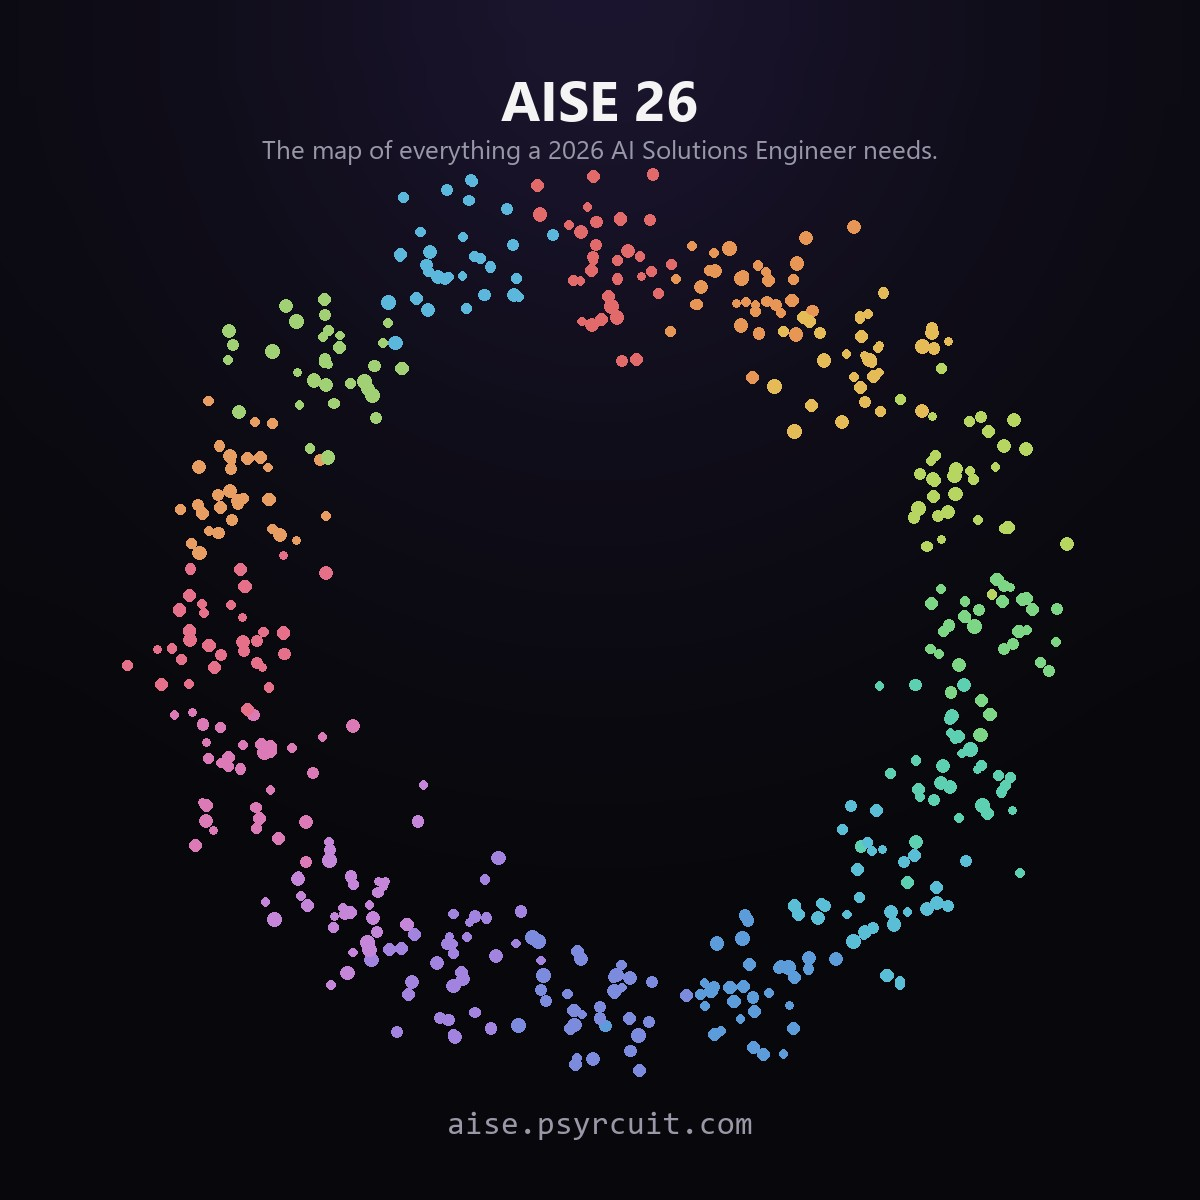
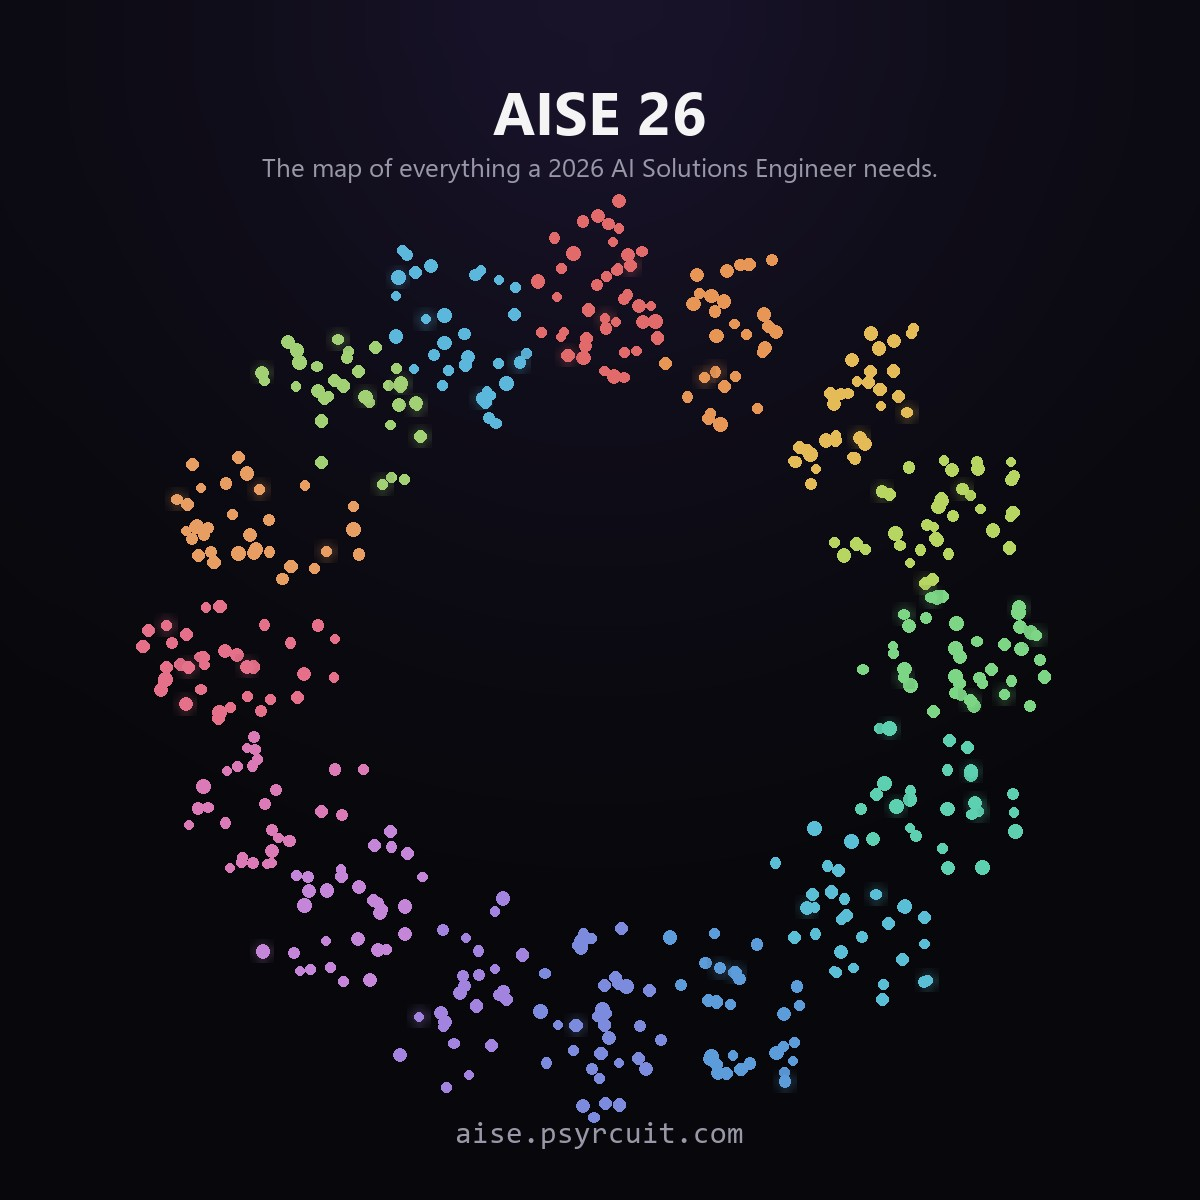
feat: better hero image + heatmap scrolls to most-recent
Hero image (gen_hero.py)
- Replaced the random Gaussian cloud-of-dots with 16 distinct
  elliptical lobes oriented radially (long axis pointing outward
  from the center, like the live force-graph settles). Each lobe
  has varied density to match the real per-module concept counts
  (M1=41, M6=26, etc.). About 10% of dots get a faint halo to
  suggest depth. The result actually looks like the System Map
  instead of a coffee-stain ring.

Daily activity heatmap
- The grid is 740px wide; on a 375px viewport the user landed on
  the OLDEST week and had to swipe RIGHT to find today. Now the
  heatmap scrolls itself to its right edge once mounted, so today
  sits at the right edge by default. Older weeks are still
  available via left swipe; right scroll is no longer needed at
  all.

Service-worker cache bumped to v14. 35/35 Playwright still green.

Changed region(s): [[0.0925, 0.0617, 0.8942, 0.9558], [0.3083, 0.8633, 0.3392, 0.8942]]

diff --git a/js/components/heatmap.js b/js/components/heatmap.js
@@ -96,6 +96,21 @@ export function renderHeatmap({ days = 365, label = 'Daily activity' } = {}) {
   inner.appendChild(grid);
   wrap.appendChild(inner);
   wrap.appendChild(legend);
+
+  // Anchor the scroll position to the right edge once the heatmap is in
+  // the DOM. The grid is 53 columns of 12px cells (~740px wide); on a
+  // mobile viewport the visible window is ~330px. Without this, the
+  // default view shows the OLDEST week and the user has to swipe right
+  // to find today's activity. Scroll-to-end flips that: today sits at
+  // the right edge, swipe left walks back through time.
+  queueMicrotask(() => {
+    requestAnimationFrame(() => {
+      if (wrap.scrollWidth > wrap.clientWidth) {
+        wrap.scrollLeft = wrap.scrollWidth - wrap.clientWidth;
+      }
+    });
+  });
+
   return wrap;
 }
 

diff --git a/service-worker.js b/service-worker.js
@@ -1,7 +1,7 @@
 // Minimal service worker: cache-first for app shell, network-first for everything else.
 // On version bump (CACHE_NAME), all old caches are purged on activate.
 
-const CACHE_NAME = 'aise26-v13';
+const CACHE_NAME = 'aise26-v14';
 const SHELL = [
   './index.html',
   './styles/tokens.css',

diff --git a/gen_hero.py b/gen_hero.py
@@ -1,8 +1,11 @@
-"""Generate a second hero image: stylized System Map pinwheel.
+"""Generate a second hero image: pinwheel of module lobes.
 
-Renders the same pinwheel layout the live force-graph settles into,
-but as a clean static PNG suitable for a LinkedIn post-image slot.
-1200x1200 square. Dark theme.
+Closer to what the live force-graph actually renders: 16 elliptical
+clusters arranged in a ring, each cluster oriented radially (long axis
+pointing outward from center). Single-rest deterministic so the image
+is reproducible.
+
+1200x1200, dark surface. Output: hero-map.png + hero-map.jpg.
 """
 import math
 import random
@@ -22,17 +25,23 @@ MODULE_HUES = [
 ]
 
 N_MODULES = 16
-CONCEPTS_PER_MODULE = 32  # average, ~514/16
-RADIUS = 380              # ring radius
-CLUSTER_R = 95            # spread of concepts within a module
+# Per-module concept counts (rough averages, vary so lobes have
+# different visual densities like the real map).
+CONCEPTS_PER_MODULE = [
+    41, 28, 32, 36, 38, 26, 30, 28,
+    34, 24, 30, 28, 36, 32, 34, 32
+]
+
+RING_R = 360            # distance from center to each module's anchor
+LOBE_LONG = 110         # ellipse long-axis (radial direction)
+LOBE_SHORT = 70         # ellipse short-axis (tangential direction)
 
 
 def font(name, size):
     return ImageFont.truetype(f"C:/Windows/Fonts/{name}", size)
 
 
-# Deterministic spread per module so the image is reproducible.
-random.seed(42)
+random.seed(7)
 
 img = Image.new("RGB", (W, H), BG)
 
@@ -41,7 +50,7 @@ glow = Image.new("RGBA", (W, H), (0, 0, 0, 0))
 gd = ImageDraw.Draw(glow)
 for r in range(int(W * 0.85), 0, -25):
     t = 1 - (r / (W * 0.85))
-    a = int(45 * t * t)
+    a = int(40 * t * t)
     if a < 1:
         continue
     gd.ellipse([W // 2 - r, 40 - r, W // 2 + r, 40 + r],
@@ -51,55 +60,70 @@ img = Image.alpha_composite(img.convert("RGBA"), glow).convert("RGB")
 
 draw = ImageDraw.Draw(img)
 
-# Pinwheel: 16 module centers evenly spaced on a circle. Module 1 at top.
-cx, cy = W // 2, H // 2 + 30
-centers = []
-for i in range(N_MODULES):
-    angle = (i / N_MODULES) * math.pi * 2 - math.pi / 2
-    centers.append((
-        cx + math.cos(angle) * RADIUS,
-        cy + math.sin(angle) * RADIUS,
-        MODULE_HUES[i]
-    ))
+cx, cy = W // 2, H // 2 + 60   # nudge the wheel down a bit to leave header room
 
-# Draw each module's concept cloud as a Gaussian-spread blob of dots.
-for mx, my, color in centers:
-    for _ in range(CONCEPTS_PER_MODULE):
-        # Normal-ish distribution via box-muller around the module center.
-        u1, u2 = random.random(), random.random()
-        if u1 < 1e-6:
-            u1 = 1e-6
-        rmag = math.sqrt(-2.0 * math.log(u1)) * (CLUSTER_R * 0.45)
-        theta = 2 * math.pi * u2
-        dx = rmag * math.cos(theta)
-        dy = rmag * math.sin(theta)
-        x = mx + dx
-        y = my + dy
-        # Vary dot size a touch so it doesn't look perfectly uniform.
-        radius = 4 + random.random() * 3
+# Each module: a tight cloud of dots inside a radially-oriented ellipse.
+for i in range(N_MODULES):
+    angle = (i / N_MODULES) * math.pi * 2 - math.pi / 2  # module 1 at top, clockwise
+    mx = cx + math.cos(angle) * RING_R
+    my = cy + math.sin(angle) * RING_R
+    color = MODULE_HUES[i]
+    cos_a = math.cos(angle)
+    sin_a = math.sin(angle)
+
+    count = CONCEPTS_PER_MODULE[i]
+    # Sample inside a unit disc, scale into the lobe ellipse, then rotate so
+    # the long axis points radially outward (along the unit vector from
+    # origin to module center). Slight density falloff toward edges via a
+    # Gaussian-ish radial weighting.
+    for _ in range(count):
+        # Sample uniform-ish point in the unit disc with a soft falloff.
+        u = random.random()
+        v = random.random()
+        rho = math.sqrt(u) * 0.95             # uniform in disc area
+        theta = 2 * math.pi * v
+        ex = math.cos(theta) * rho * LOBE_LONG
+        ey = math.sin(theta) * rho * LOBE_SHORT
+        # Rotate the ellipse so its long axis is radial.
+        rx = ex * cos_a - ey * sin_a
+        ry = ex * sin_a + ey * cos_a
+        x = mx + rx
+        y = my + ry
+        # Dot radius - slight jitter for organic feel.
+        radius = 4.5 + random.random() * 2.5
+        # Faint outer halo on a small fraction of dots to suggest depth.
+        if random.random() < 0.10:
+            halo = Image.new("RGBA", (24, 24), (0, 0, 0, 0))
+            hd = ImageDraw.Draw(halo)
+            hr = 11
+            hcol = tuple(int(color[1 + 2 * k:3 + 2 * k], 16) for k in range(3)) + (60,)
+            hd.ellipse([12 - hr, 12 - hr, 12 + hr, 12 + hr], fill=hcol)
+            halo = halo.filter(ImageFilter.GaussianBlur(5))
+            img.paste(halo, (int(x - 12), int(y - 12)), halo)
+            draw = ImageDraw.Draw(img)
         draw.ellipse([x - radius, y - radius, x + radius, y + radius],
                      fill=color)
 
 # Brand row at the top.
 brand_text = "AISE 26"
-brand_font = font("segoeuib.ttf", 56)
+brand_font = font("segoeuib.ttf", 60)
 b_bbox = draw.textbbox((0, 0), brand_text, font=brand_font)
 b_w = b_bbox[2] - b_bbox[0]
-draw.text(((W - b_w) // 2, 60), brand_text, fill=TEXT, font=brand_font)
+draw.text(((W - b_w) // 2, 70), brand_text, fill=TEXT, font=brand_font)
 
 # Subtitle.
 sub = "The map of everything a 2026 AI Solutions Engineer needs."
 sub_font = font("segoeui.ttf", 26)
 s_bbox = draw.textbbox((0, 0), sub, font=sub_font)
 s_w = s_bbox[2] - s_bbox[0]
-draw.text(((W - s_w) // 2, 130), sub, fill=TEXT_2, font=sub_font)
+draw.text(((W - s_w) // 2, 148), sub, fill=TEXT_2, font=sub_font)
 
 # URL bottom.
-url_font = font("consola.ttf", 32)
+url_font = font("consola.ttf", 30)
 url_text = "aise.psyrcuit.com"
 u_bbox = draw.textbbox((0, 0), url_text, font=url_font)
 u_w = u_bbox[2] - u_bbox[0]
-draw.text(((W - u_w) // 2, H - 90), url_text, fill=TEXT_2, font=url_font)
+draw.text(((W - u_w) // 2, H - 80), url_text, fill=TEXT_2, font=url_font)
 
 img.save("hero-map.png", "PNG", optimize=True)
 img.convert("RGB").save(
